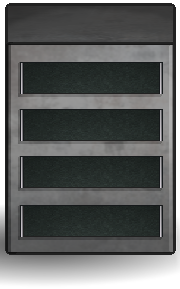
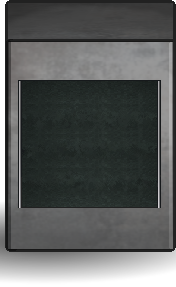
Set up basic game page and created cabinet component. Linked cabinet component to level select as expected

diff --git a/src/components/main_game_page/Cabinet.tsx b/src/components/main_game_page/Cabinet.tsx
@@ -1,0 +1,40 @@
+import { useState } from 'react';
+import cabinetFrame from '../../assets/room/main_menu/small_cabinet/small_cabinet.png';
+import drawer from '../../assets/room/main_menu/small_cabinet/small_cabinet_drawer.png';
+import { motion } from 'framer-motion';
+
+interface CabinetProps {
+    handleLevelButtonClick: (
+      level: number,
+      event: React.MouseEvent<HTMLButtonElement>
+    ) => void;
+  }
+
+export default function Cabinet({
+    handleLevelButtonClick
+  }: CabinetProps) {
+
+    return (
+        <div style={{imageRendering:'pixelated'}}>
+            <img src={cabinetFrame} alt="cabinet"/>
+            {/* Cabinet Drawer */}
+            <button
+                onClick={(e) => handleLevelButtonClick(6, e)}>
+                <motion.img 
+                    className='absolute top-[26%] left-[10%]' 
+                    style={{imageRendering: 'pixelated'}}
+                    whileHover={{
+                        paddingTop:20
+                    }}
+                    transition={{
+                        type: 'spring',
+                        duration: 0.5,
+                        stiffness:100,
+                    }}
+                    src={drawer} 
+                    alt="drawer"
+                />
+            </button>
+        </div>
+    );
+}

diff --git a/src/components/main_game_page/MainGamePage.tsx b/src/components/main_game_page/MainGamePage.tsx
@@ -1,0 +1,27 @@
+import background from '../../assets/room/main_menu/background.png';
+import table from '../../assets/room/main_menu/table.png';
+import cabinet from '../../assets/room/main_menu/small_cabinet/small_cabinet.png';
+import phoneBase from '../../assets/room/shared/phone/phone_base_only.png';
+import Cabinet from './Cabinet';
+
+interface MainGamePageProps {
+    handleLevelButtonClick: (
+      level: number,
+      event: React.MouseEvent<HTMLButtonElement>
+    ) => void;
+  }
+
+export default function MainGamePage({
+    handleLevelButtonClick
+  }: MainGamePageProps) {
+
+    return (
+        <div className='w-[100%] h-[100%]' style={{backgroundImage: `url(${background})`, backgroundRepeat: 'no-repeat', backgroundSize: 'cover', imageRendering:'pixelated'}}>
+        <img className='absolute bottom-0 w-screen' src={table} alt="table" />
+        <div className='absolute top-[25%] left-[0.5%]' >
+            <Cabinet handleLevelButtonClick={handleLevelButtonClick}/>
+        </div>
+        <img className='absolute top-[55%] left-[25%] scale-[250%]' src={phoneBase} alt="phone base"/>
+        </div>
+    );
+}

diff --git a/src/App.tsx b/src/App.tsx
@@ -7,6 +7,7 @@ import { SignIn } from './components/levels/SignIn';
 import { PlayerInfo } from './components/levels/PlayerInfo';
 import { AnimatePresence } from 'framer-motion';
 import { Tutorial } from './components/levels/Tutorial';
+import MainGamePage from './components/main_game_page/MainGamePage';
 
 function App() {
   const [currentLevel, setCurrentLevel] = useState(1);
@@ -25,6 +26,8 @@ function App() {
       handleLevelButtonClick={handleLevelButtonClick}
       handleConfirm={handleConfirm}
     />,
+    <MainGamePage
+      handleLevelButtonClick={handleLevelButtonClick}/>,
     <LevelSelect handleLevelButtonClick={handleLevelButtonClick} />,
     <Tutorial
       handleCheckAnswer={handleCheckAnswer}

diff --git a/src/components/levels/LevelSelect.tsx b/src/components/levels/LevelSelect.tsx
@@ -54,7 +54,7 @@ export function LevelSelect({ handleLevelButtonClick }: LevelSelectProps) {
           src={drawer_face_sprite} />
           <Button
             className="absolute font-[alagard] text-[1.1rem] mt-5 mb-5 bottom-[9%] w-[20%] left-[40%]"
-            onClick={(e) => handleLevelButtonClick(0, e)}
+            onClick={(e) => handleLevelButtonClick(5, e)}
           >
             Back
           </Button>
